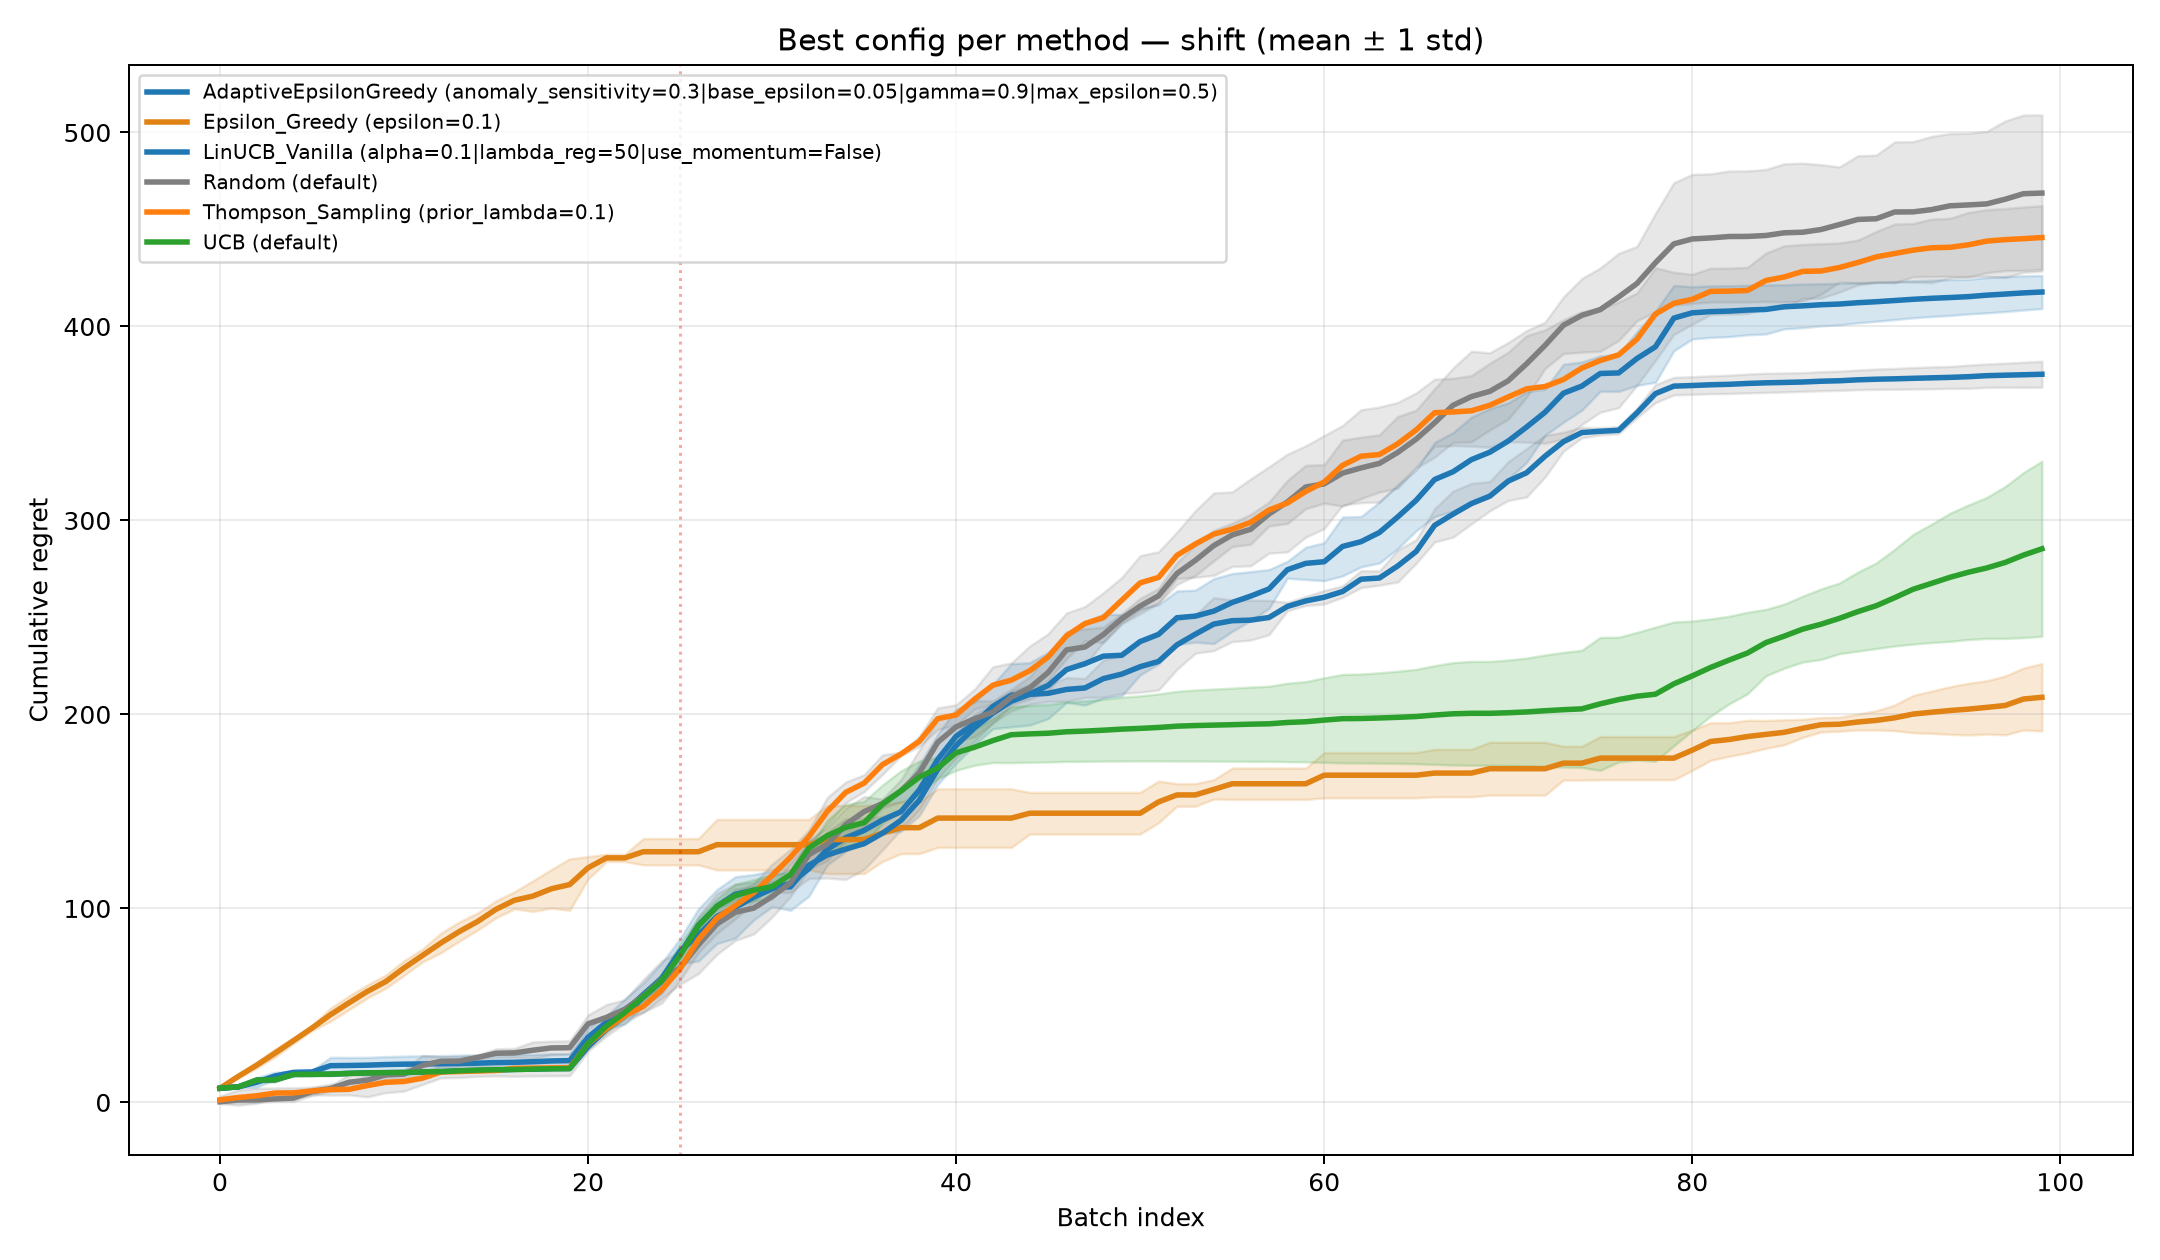
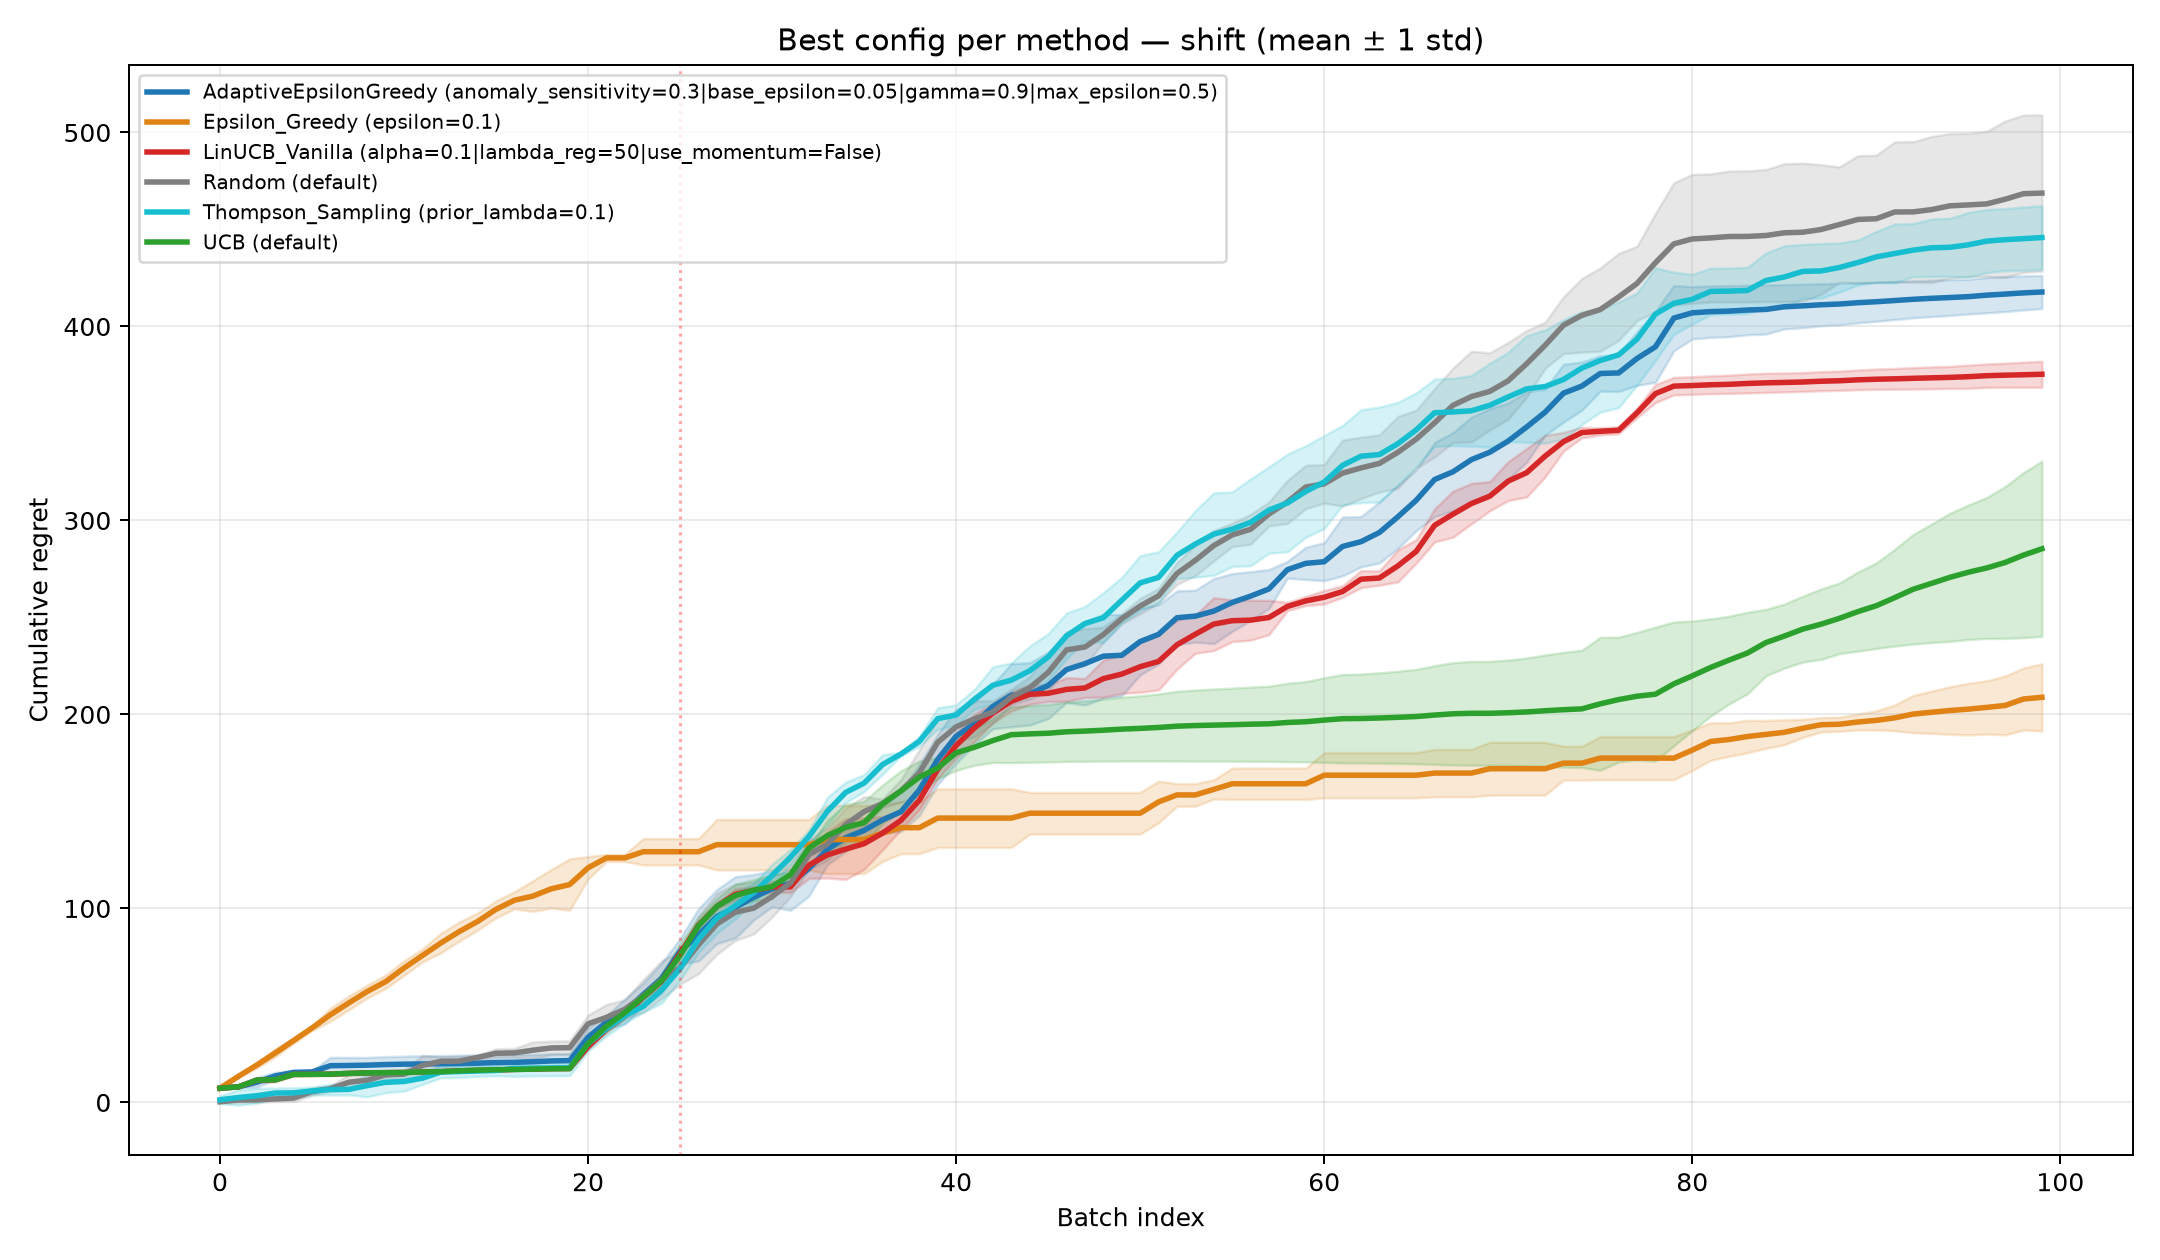
Plot confidence bands for all methods and all configs, not only best

diff --git a/Python/run_mab_prototype_benchmark.py b/Python/run_mab_prototype_benchmark.py
@@ -105,10 +105,17 @@ def plot_prototype_confidence_bands(
         "AdaptiveEpsilonGreedy": "#1F77B4",
         "UCB": "#2CA02C",
         "Random": "#7F7F7F",
+        "LinUCB_Vanilla": "#D62728",
+        "LinUCB_Momentum": "#8C564B",
+        "Thompson_Sampling": "#17BECF",
+        "Gaussian_Sampling": "#BCBD22",
     }
+    # Distinct linestyle cycle so multiple configs of the same policy stay readable.
+    style_cycle = ["-", "--", "-.", ":"]
     eps_colors = {
         0.01: "#FDBB84",
         0.02: "#FDB863",
+        0.03: "#FDAE6B",
         0.05: "#E08214",
         0.08: "#D62728",
         0.10: "#9467BD",
@@ -117,105 +124,124 @@ def plot_prototype_confidence_bands(
         0.30: "#1A0030",
     }
 
-    for cooling in sorted(band_df["cooling_preset"].unique()):
-        sub_band = band_df[band_df.cooling_preset == cooling]
-
-        # --- Figure 1: best config per policy ---
-        fig, ax = plt.subplots(figsize=(12, 7))
-        for policy in sorted(sub_band["policy"].unique()):
-            psub = sub_band[sub_band.policy == policy].sort_values("batch_index")
+    for cooling in sorted(all_band_df["cooling_preset"].unique()):
+        # --- Figure 1: ALL methods / ALL configs (primary) ---
+        sub_all = all_band_df[all_band_df.cooling_preset == cooling]
+        fig, ax = plt.subplots(figsize=(14, 8))
+        # Stable order: policy then config_id
+        keys = (
+            sub_all[["policy", "config_id"]]
+            .drop_duplicates()
+            .sort_values(["policy", "config_id"])
+        )
+        for _, key in keys.iterrows():
+            policy = key["policy"]
+            cfg_id = key["config_id"]
+            psub = sub_all[
+                (sub_all.policy == policy) & (sub_all.config_id == cfg_id)
+            ].sort_values("batch_index")
+            if psub.empty:
+                continue
+            # Index among this policy's configs → linestyle
+            cfg_list = keys.loc[keys.policy == policy, "config_id"].tolist()
+            ls = style_cycle[cfg_list.index(cfg_id) % len(style_cycle)]
             x = psub["batch_index"].to_numpy()
             mean = psub["cum_regret_mean"].to_numpy()
             std = psub["cum_regret_std"].to_numpy()
-            label = f"{policy} ({psub['config_id'].iloc[0]})"
-            ax.plot(x, mean, label=label, color=policy_colors.get(policy, None), linewidth=2.2)
-            ax.fill_between(x, mean - std, mean + std, color=policy_colors.get(policy, "gray"), alpha=0.18)
+            color = policy_colors.get(policy, None)
+            label = f"{policy} | {cfg_id}"
+            ax.plot(x, mean, label=label, color=color, linewidth=1.8, linestyle=ls, alpha=0.95)
+            ax.fill_between(x, mean - std, mean + std, color=color or "gray", alpha=0.10)
         if shift_batch_indices:
             for sb in shift_batch_indices:
                 ax.axvline(x=sb, color="red", linestyle=":", alpha=0.35, linewidth=1.2)
         ax.set_xlabel("Batch index")
         ax.set_ylabel("Cumulative regret")
-        ax.set_title(f"Best config per method — {cooling} (mean ± 1 std)")
-        ax.legend(fontsize=8, loc="upper left")
+        ax.set_title(f"All methods / all configs — {cooling} (mean ± 1 std)")
+        ax.legend(fontsize=6.5, loc="upper left", ncol=2)
         ax.grid(True, alpha=0.25)
         fig.tight_layout()
-        fig.savefig(f"{output_prefix}_{cooling}_best_methods_bands.png", dpi=180)
+        fig.savefig(f"{output_prefix}_{cooling}_all_methods_bands.png", dpi=180)
         plt.close(fig)
 
-        # --- Figure 2: all Epsilon-Greedy epsilons ---
-        eps_cfg = metrics_df.loc[
-            metrics_df.policy == "Epsilon_Greedy",
-            ["cooling_preset", "policy", "config_id"],
-        ].drop_duplicates()
-        if len(eps_cfg):
-            eps_band = build_confidence_band_table(
-                curves_df,
-                metrics_df,
-                config_ids=eps_cfg,
-            )
-            eps_band = eps_band[eps_band.cooling_preset == cooling]
-            if len(eps_band):
-                fig, ax = plt.subplots(figsize=(14, 8))
-                for cfg_id in sorted(eps_band["config_id"].unique()):
-                    csub = eps_band[eps_band.config_id == cfg_id].sort_values("batch_index")
-                    eps_val = float(cfg_id.split("=")[-1]) if "epsilon=" in cfg_id else 0.1
-                    x = csub["batch_index"].to_numpy()
-                    mean = csub["cum_regret_mean"].to_numpy()
-                    std = csub["cum_regret_std"].to_numpy()
-                    color = eps_colors.get(round(eps_val, 2), "gray")
-                    ax.plot(
-                        x,
-                        mean,
-                        label=f"ε={eps_val:.0%}",
-                        color=color,
-                        linewidth=2.5 if abs(eps_val - 0.10) < 1e-6 else 2.0,
-                        alpha=1.0 if abs(eps_val - 0.10) < 1e-6 else 0.85,
-                    )
-                    ax.fill_between(x, mean - std, mean + std, color=color, alpha=0.12)
-                if shift_batch_indices:
-                    for sb in shift_batch_indices:
-                        ax.axvline(x=sb, color="red", linestyle="--", alpha=0.45, linewidth=1.5, label="Drift" if sb == shift_batch_indices[0] else None)
-                ax.set_xlabel("Batch index")
-                ax.set_ylabel("Cumulative regret")
-                ax.set_title(f"Epsilon-Greedy sweep — {cooling} (mean ± 1 std)")
-                ax.legend(fontsize=9, loc="upper left", ncol=2)
-                ax.grid(True, alpha=0.25)
-                fig.tight_layout()
-                fig.savefig(f"{output_prefix}_{cooling}_epsilon_greedy_bands.png", dpi=180)
-                plt.close(fig)
+        # Keep a best-config overlay for quick glance (secondary).
+        sub_best = band_df[band_df.cooling_preset == cooling]
+        if len(sub_best):
+            fig, ax = plt.subplots(figsize=(12, 7))
+            for policy in sorted(sub_best["policy"].unique()):
+                psub = sub_best[sub_best.policy == policy].sort_values("batch_index")
+                x = psub["batch_index"].to_numpy()
+                mean = psub["cum_regret_mean"].to_numpy()
+                std = psub["cum_regret_std"].to_numpy()
+                label = f"{policy} ({psub['config_id'].iloc[0]})"
+                ax.plot(x, mean, label=label, color=policy_colors.get(policy, None), linewidth=2.2)
+                ax.fill_between(
+                    x, mean - std, mean + std, color=policy_colors.get(policy, "gray"), alpha=0.18
+                )
+            if shift_batch_indices:
+                for sb in shift_batch_indices:
+                    ax.axvline(x=sb, color="red", linestyle=":", alpha=0.35, linewidth=1.2)
+            ax.set_xlabel("Batch index")
+            ax.set_ylabel("Cumulative regret")
+            ax.set_title(f"Best config per method — {cooling} (mean ± 1 std)")
+            ax.legend(fontsize=8, loc="upper left")
+            ax.grid(True, alpha=0.25)
+            fig.tight_layout()
+            fig.savefig(f"{output_prefix}_{cooling}_best_methods_bands.png", dpi=180)
+            plt.close(fig)
 
-        # --- Figure 3: AdaptiveEpsilonGreedy grid ---
-        ad_cfg = metrics_df.loc[
-            metrics_df.policy == "AdaptiveEpsilonGreedy",
-            ["cooling_preset", "policy", "config_id"],
-        ].drop_duplicates()
-        if len(ad_cfg):
-            ad_band = build_confidence_band_table(
-                curves_df,
-                metrics_df,
-                config_ids=ad_cfg,
-            )
-            ad_band = ad_band[ad_band.cooling_preset == cooling]
-            if len(ad_band):
-                fig, ax = plt.subplots(figsize=(12, 7))
-                for cfg_id in sorted(ad_band["config_id"].unique()):
-                    csub = ad_band[ad_band.config_id == cfg_id].sort_values("batch_index")
-                    x = csub["batch_index"].to_numpy()
-                    mean = csub["cum_regret_mean"].to_numpy()
-                    std = csub["cum_regret_std"].to_numpy()
-                    ax.plot(x, mean, label=cfg_id.replace("|", " "), linewidth=1.8, alpha=0.9)
-                    ax.fill_between(x, mean - std, mean + std, alpha=0.08)
-                if shift_batch_indices:
-                    for sb in shift_batch_indices:
-                        ax.axvline(x=sb, color="red", linestyle=":", alpha=0.35)
-                ax.set_xlabel("Batch index")
-                ax.set_ylabel("Cumulative regret")
-                ax.set_title(f"AdaptiveEpsilonGreedy grid — {cooling} (mean ± 1 std)")
-                ax.legend(fontsize=7, loc="upper left")
-                ax.grid(True, alpha=0.25)
-                fig.tight_layout()
-                fig.savefig(f"{output_prefix}_{cooling}_adaptive_bands.png", dpi=180)
-                plt.close(fig)
+        # --- Per-policy panels: every config of that method ---
+        for policy in sorted(metrics_df["policy"].unique()):
+            pol_cfg = metrics_df.loc[
+                (metrics_df.policy == policy) & (metrics_df.cooling_preset == cooling),
+                ["cooling_preset", "policy", "config_id"],
+            ].drop_duplicates()
+            if pol_cfg.empty:
+                # cooling_preset may be absent on older metrics; fall back
+                pol_cfg = metrics_df.loc[
+                    metrics_df.policy == policy,
+                    ["cooling_preset", "policy", "config_id"],
+                ].drop_duplicates()
+            if pol_cfg.empty:
+                continue
+            pol_band = all_band_df[
+                (all_band_df.cooling_preset == cooling) & (all_band_df.policy == policy)
+            ]
+            if pol_band.empty:
+                continue
+            fig, ax = plt.subplots(figsize=(13, 7))
+            for i, cfg_id in enumerate(sorted(pol_band["config_id"].unique())):
+                csub = pol_band[pol_band.config_id == cfg_id].sort_values("batch_index")
+                x = csub["batch_index"].to_numpy()
+                mean = csub["cum_regret_mean"].to_numpy()
+                std = csub["cum_regret_std"].to_numpy()
+                if policy == "Epsilon_Greedy" and "epsilon=" in cfg_id:
+                    eps_val = float(cfg_id.split("=")[-1])
+                    color = eps_colors.get(round(eps_val, 2), policy_colors.get(policy, "gray"))
+                    label = f"ε={eps_val:g}"
+                else:
+                    color = policy_colors.get(policy, None)
+                    label = str(cfg_id).replace("|", " ")
+                ax.plot(
+                    x, mean, label=label, color=color,
+                    linewidth=2.0, linestyle=style_cycle[i % len(style_cycle)], alpha=0.95,
+                )
+                ax.fill_between(x, mean - std, mean + std, color=color or "gray", alpha=0.12)
+            if shift_batch_indices:
+                for j, sb in enumerate(shift_batch_indices):
+                    ax.axvline(
+                        x=sb, color="red", linestyle="--", alpha=0.45, linewidth=1.5,
+                        label="Drift" if j == 0 else None,
+                    )
+            ax.set_xlabel("Batch index")
+            ax.set_ylabel("Cumulative regret")
+            ax.set_title(f"{policy} — all configs — {cooling} (mean ± 1 std)")
+            ax.legend(fontsize=8, loc="upper left", ncol=2)
+            ax.grid(True, alpha=0.25)
+            fig.tight_layout()
+            safe_name = policy.replace("/", "_")
+            fig.savefig(f"{output_prefix}_{cooling}_{safe_name}_bands.png", dpi=180)
+            plt.close(fig)
 
     print(
         f"[mab/prototype] saved {band_path} ({len(band_df)} rows, best config per method)",
@@ -223,6 +249,10 @@ def plot_prototype_confidence_bands(
     )
     print(
         f"[mab/prototype] saved {all_band_path} ({len(all_band_df)} rows, all configs)",
+        flush=True,
+    )
+    print(
+        f"[mab/prototype] also wrote all-methods and per-policy band plots under {output_prefix}_*",
         flush=True,
     )
     return band_df
